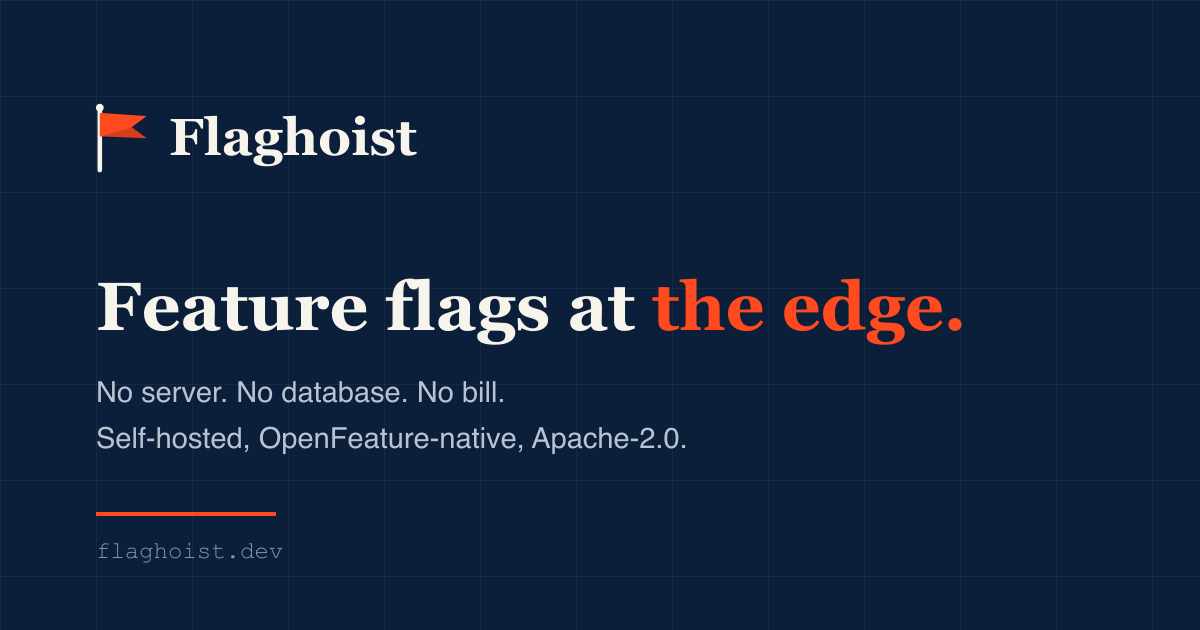
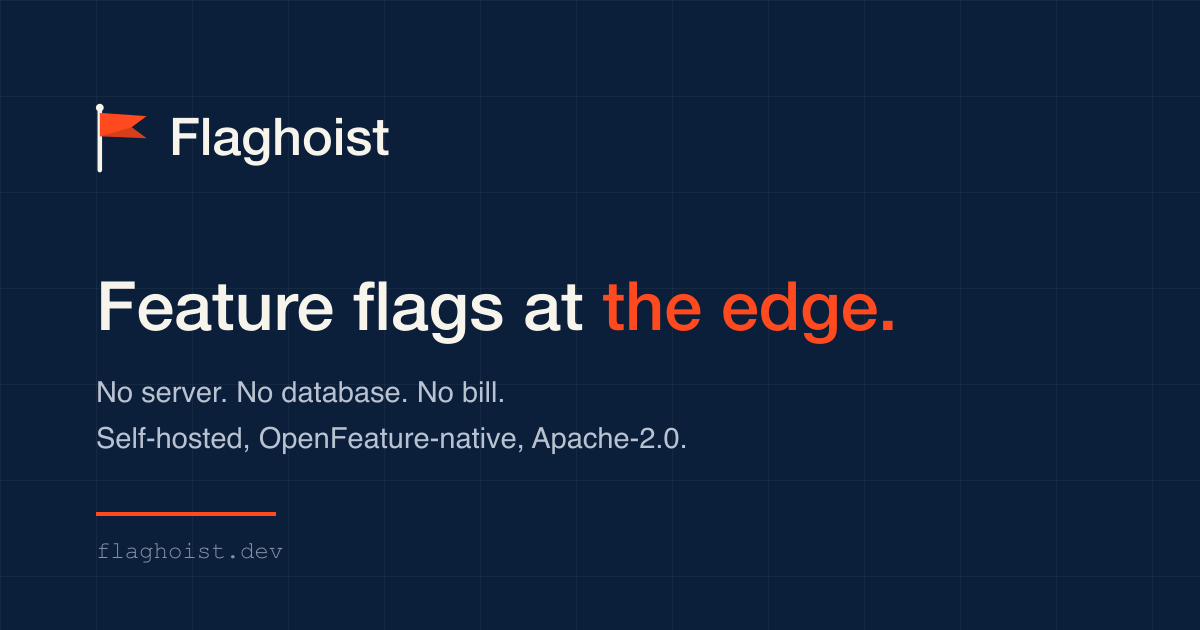
docs(brand): make the brand kit match what ships
The kit still specified Inter 600 for the wordmark, and logo.svg, logo-dark.svg
and banner.svg still declared Inter in their font-family. Both surfaces moved to
Geist, so the kit was documenting a typeface the product no longer used and the
lockup SVGs would have rendered in a different face from every screen they sit
next to.

- point the three lockup SVGs at Geist Sans
- record the whole type system rather than only the wordmark: Geist Sans for
  wordmark, headings and UI, Geist Mono for code, keys and numerals, with the
  OFL-1.1 licence noted so redistribution inside our builds is on the record
- state the no-CDN rule as a brand don't. It is the reason the console inlines
  its fonts, and it is a compliance constraint rather than a preference
- list icon-mono.svg and og.png, which existed but were undocumented, and record
  how the generated PNGs are rebuilt
- the OG card was still setting its wordmark in Georgia to match the old serif;
  it now uses a grotesk stack, with a comment explaining that the rasteriser
  only sees system fonts and must not drift back to a serif

PRODUCT.md carried this as an open conflict. It is resolved, so that entry is
now a plain statement of the type system.

Changed region(s): [[0.0617, 0.4222, 0.8017, 0.5429], [0.1233, 0.181, 0.3392, 0.2714]]

diff --git a/brand/README.md b/brand/README.md
@@ -9,12 +9,33 @@ nautical, never kitschy.
 | File            | Use                                                       |
 | --------------- | --------------------------------------------------------- |
 | `icon.svg`      | App icon, favicon source, GitHub org avatar. Square mark. |
+| `icon-mono.svg` | Single-colour mark, inherits `currentColor`.              |
 | `logo.svg`      | Horizontal lockup for light backgrounds.                  |
 | `logo-dark.svg` | Horizontal lockup for dark backgrounds.                   |
 | `banner.svg`    | README / social header (1280×400).                        |
+| `og.png`        | Social share card, 1200×630. Generated, see below.        |
 
-The wordmark uses `Inter` weight 600. In these source SVGs the wordmark is live text; before shipping
-final production assets, outline the text so rendering does not depend on the viewer having Inter.
+`icon-mono.svg` is the same mark with no fill attributes, so it inherits `currentColor`. Use it
+wherever a directory or third party asks for a single-colour logo.
+
+## Type
+
+| Role                      | Face           | Weight   |
+| ------------------------- | -------------- | -------- |
+| Wordmark, headings, UI    | **Geist Sans** | 400, 600 |
+| Code, flag keys, numerals | **Geist Mono** | 400, 500 |
+
+Geist is licensed **OFL-1.1**, so it can be redistributed inside our own builds, and it is
+self-hosted everywhere it is used (via `@fontsource/geist-sans` and `@fontsource/geist-mono`).
+
+Do not load it, or any other face, from a third-party CDN. The admin console ships inside the
+operator's own infrastructure, so a webfont request to someone else's domain breaks air-gapped
+deployments and contradicts the compliance boundary the product is sold on. The console inlines its
+fonts into the single-file bundle for exactly this reason.
+
+In `logo.svg`, `logo-dark.svg` and `banner.svg` the wordmark is live text so it stays editable.
+Outline it before handing those files to anyone outside the project, so rendering never depends on
+the viewer having Geist installed.
 
 ## Palette
 
@@ -34,8 +55,20 @@ final production assets, outline the text so rendering does not depend on the vi
 oversell (a KV kill switch is "within a minute on next load," not "instant"), and we never punch down
 at the tools we're an alternative to.
 
+## Generated assets
+
+The PNGs are built from the SVGs rather than edited by hand, so they cannot drift from the mark:
+
+```bash
+node scripts/gen-brand-png.mjs   # icon.png, icon-1024.png, avatar.png, avatar-navy.png, og.png
+```
+
+`og.png` is written to both `brand/` and `apps/web/public/`. Re-run it after any change to the mark
+or to the landing page's headline, which the card repeats.
+
 ## Don'ts
 
 - Don't recolor the flag away from signal orange — it's the one load-bearing accent.
 - Don't add gradients, bevels, or drop shadows to the mark. It stays flat.
 - Don't stretch the lockup or change the icon-to-wordmark spacing.
+- Don't load fonts from a CDN in anything that ships to an operator. Self-host or inline.

diff --git a/PRODUCT.md b/PRODUCT.md
@@ -98,10 +98,10 @@ Binding, and already recorded in `brand/README.md`:
 - **Name and namespace:** GitHub org `flaghoist`, npm scope `@flaghoist` plus the unscoped
   `flaghoist` package, and the domain `flaghoist.dev`.
 
-**Open conflict to resolve:** `brand/README.md` specifies Inter 600 for the wordmark. The landing
-page now sets its type in Geist Sans and Geist Mono, self-hosted. The brand kit is the older
-authority and has not been updated to match, so one of the two still needs to give way. The logo
-mark itself is unaffected; only the wordmark typeface is in question.
+- **Type:** Geist Sans for the wordmark, headings and UI; Geist Mono for code, flag keys and
+  numerals. Self-hosted everywhere, never loaded from a CDN, because the admin console ships inside
+  the operator's own infrastructure. Recorded in `brand/README.md`, and applied across the landing
+  page, the dashboard and the lockup SVGs.
 
 ## Evidence on Hand
 
